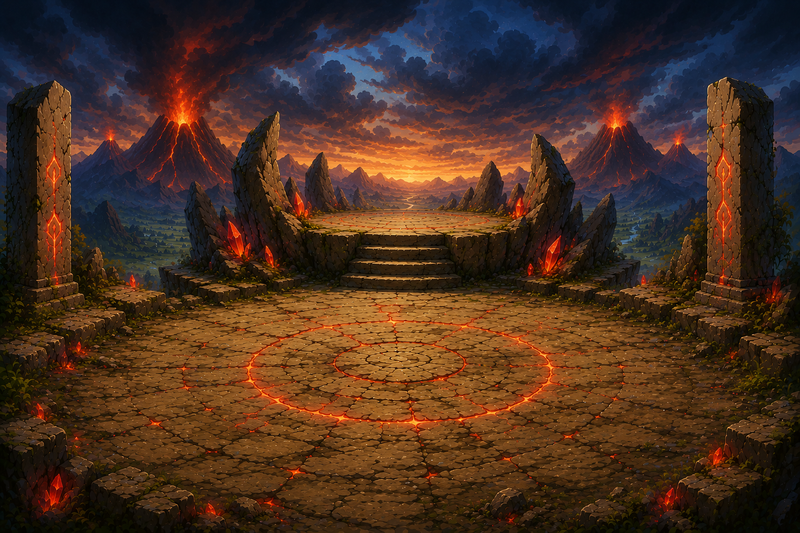
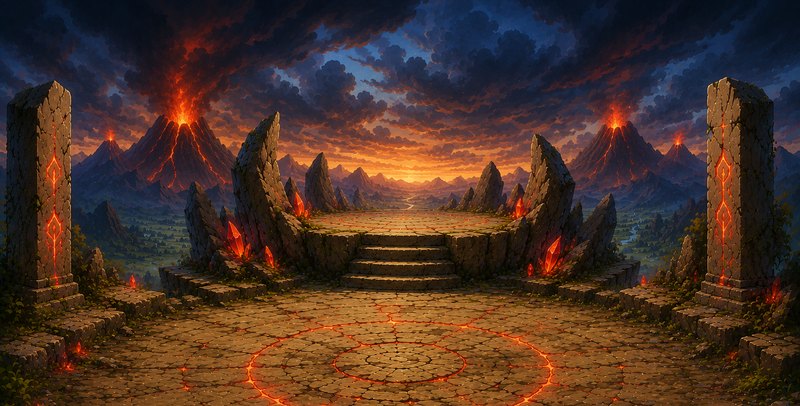
Corrige de vez a centralização das patas do Solkaiser no círculo de fogo
Achado o motivo do ajuste anterior não ter feito efeito: getMonsterInfo()
em monsters.js nunca repassava o campo scenePosition pro objeto usado
pelo render — o valor era sempre ignorado (bug real, corrigido junto).

Mas mesmo com o bug corrigido, background-position-y não tinha nenhum
efeito nessa combinação de proporções: como #monster-area usa
background-size:cover e a imagem já cobria a altura do container exatamente
(zero folga vertical), não havia como "arrastar" a imagem verticalmente
por CSS. A correção de verdade foi recortar a arte de origem
(1536x1024) removendo o excesso de chão abaixo do círculo (mantendo só
as primeiras 779 linhas), o que muda a proporção da imagem o bastante
pra o centro do círculo cair a ~90% da altura exibida — bem onde as
patas do Solkaiser já ficam por causa do layout do sprite.

diff --git a/idle-hunter/js/data/monsters.js b/idle-hunter/js/data/monsters.js
@@ -197,7 +197,6 @@ export const BOSSES = [
     ],
     // Boss-specific background (see Chispim's `scene` comment above).
     scene: 'assets/ui/scenes/boss-solkaiser.png',
-    scenePosition: 'center 55%',
     materials: {
       primary1: { id: 'solkaiser_feather', name: 'Pena de Solkaiser', emoji: '🪶', image: 'assets/solkaiser/pena.png' },
       primary2: { id: 'solkaiser_core', name: 'Núcleo Solar', emoji: '☀', image: 'assets/solkaiser/nucleo.png' },
@@ -450,6 +449,7 @@ export function getMonsterInfo(stage, weakMonsterId) {
       image: b.image || null,
       animFrames: b.animFrames || null,
       scene: b.scene || null,
+      scenePosition: b.scenePosition || null,
       element: b.element,
       isBoss: true,
       isWeak: false,
